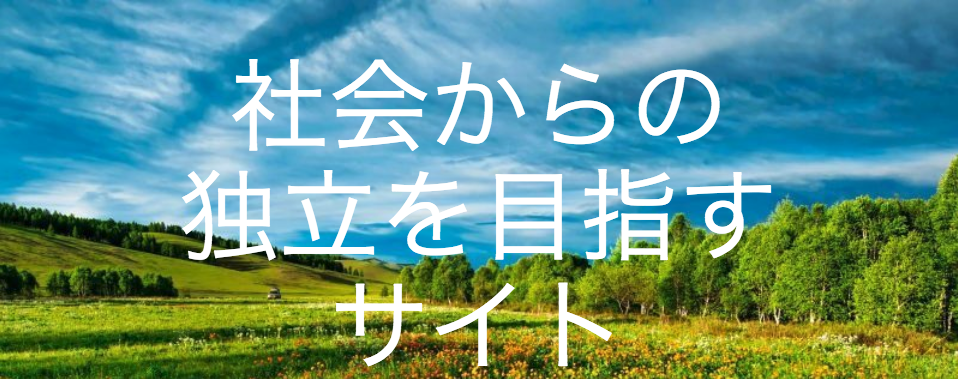
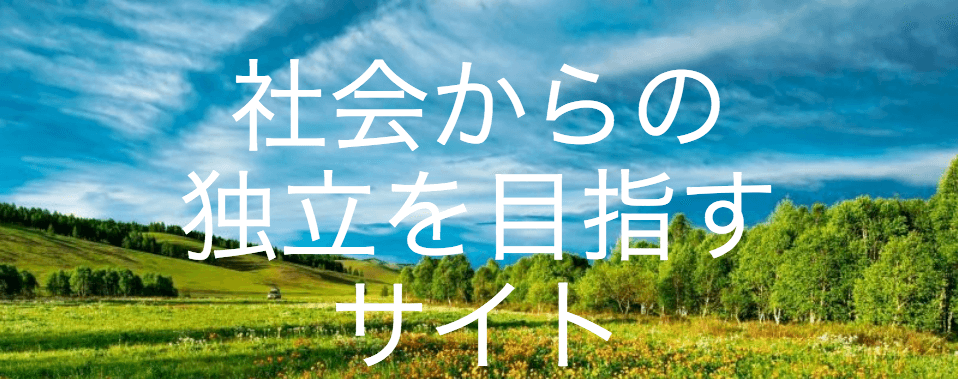
画像圧縮とブログのretake

diff --git a/html/blogs/brackets.html b/html/blogs/brackets.html
@@ -34,8 +34,14 @@ gtag('config', 'UA-122962212-1');
 </head>
 <body>
 <div class="wrap">
-  <header>
-    <img class="img-respoisive center-block " src="../../img/top.png" width="100%" height="auto" alt="社会からの独立を目指すサイト">
+  <header class="container-fluid padding_none">
+    <a href="../../index.html"><img class="img-respoisive" src="../../img/top.png" alt="社会からの独立を目指すサイト"></a>
+    <nav class="background_gray py_30">
+      <ul class="p_30 text-center">
+        <li class="px_20 inline_block"><a href="../../index.html">トップページへ</a></li>
+        <li class="px_20 inline_block"><a href="#">次の記事へ(準備中)</a></li>
+      </ul>
+    </nav>
   </header>
   
   <main role="main">
@@ -88,8 +94,8 @@ gtag('config', 'UA-122962212-1');
       </ul>
     </section>
     
-    <section class="container-fluid max_width_960">
-      <h2 id="what" class="h2_heading">Bracketsって？</h2>
+    <section id="what" class="container-fluid max_width_960">
+      <h2 class="h2_heading">Bracketsって？</h2>
       <p class="p_30">Bracketsとは、HTML,CSSコーディングに<br class="br_sp">特化したテキストエディタのことです。<br class="br_sp"><br class="br_sp"><br class="br_pc">メモ帳でもコーディングできますが、<br class="br_sp">とてもやりづらいです。<br class="br_sp"><br class="br_sp"><br class="br_pc"><br class="br_pc">高機能のツールを使ったほうが絶対に<br class="br_sp">良いです。無料ですしね。<br class="br_sp"><br class="br_sp"><br class="br_pc">日本語対応済みのため、とっかかりやすい<br class="br_sp">ですし、HTML・CSSの勉強をしたい人 or <br class="br_sp">それらを使ってWebページを<br class="br_pc">作りたい人には<br class="br_sp">ピッタリのアプリケーションです。<br class="br_sp"><br class="br_sp"><br class="br_pc"><br class="br_pc">拡張機能も豊富なので、大規模な開発にも<br class="br_sp">対応できるのもすごいです。</p>
     </section>
     
@@ -117,8 +123,8 @@ gtag('config', 'UA-122962212-1');
       <p class="p_30">さきほど紹介したライブプレビュー機能<br class="br_sp">ですが、<br class="br_pc">すごいのはリアルタイムで更新<br class="br_sp">されることです。<br class="br_sp"><br class="br_sp"><br class="br_pc"><br class="br_pc">文字を打った瞬間、マークアップを変更<br class="br_sp">した瞬間にブラウザ画面が更新されるので、<br class="br_sp"><br class="br_pc">どこをどう変更したのかがすぐに分かります。<br class="br_sp"><br class="br_sp"><br class="br_pc"><br class="br_pc">また、選択した部分がブラウザでは<br class="br_sp">どの部分なのかがハイライト強調される<br class="br_sp">ので、<br class="br_pc">初心者の人にはとても心強いです。<br class="br_sp">分かりやすく編集することができますね。</p>
     </section>
     
-    <section class="container-fluid max_width_960 mb_30">
-      <h2 id="enviro" class="h2_heading">Bracketsの環境設定</h2>
+    <section id="enviro" class="container-fluid max_width_960 mb_30">
+      <h2 class="h2_heading">Bracketsの環境設定</h2>
       <p class="p_30">それでは早速、環境設定のやり方について説明していきます。</p>
     </section>
     
@@ -189,9 +195,14 @@ gtag('config', 'UA-122962212-1');
       <p class="p_30">以上で　Bracketsのセットアップ作業は<br class="br_sp">完了です。<br class="br_pc"><br class="br_sp"><br class="br_sp">次回からは、フォルダを作成して<br class="br_sp">Webサイトを制作していきます。<br class="br_pc"><br class="br_sp">いろいろな機能を利用して効率よく制作する<br class="br_sp">すべを紹介していきます。</p>
     </section>
     
-    
   </main>
   
+  <nav class="background_gray py_30 container-fluid padding_none max_width_960">
+    <ul class="p_30 text-center">
+      <li class="px_20 inline_block"><a href="../../index.html">トップページへ</a></li>
+      <li class="px_20 inline_block"><a href="#">次の記事へ(準備中)</a></li>
+    </ul>
+  </nav>
   <footer class="text-center bg-primary center-block">
     <small>Copyright Kanda Takeshi</small>
   </footer>

diff --git a/index.html b/index.html
@@ -35,8 +35,8 @@ gtag('config', 'UA-122962212-1');
 </head>
 <body>
 <div class="wrap">
-  <header>
-    <img class="img-respoisive center-block " src="./img/top.png" width="100%" height="auto" alt="社会からの独立を目指すサイト">
+  <header class="container-fluid padding_none">
+    <img class="img-respoisive" src="../../img/top.png" alt="社会からの独立を目指すサイト">
   </header>
   
   <main role="main" class="panel panel-default none_margin panel_center">
@@ -56,7 +56,7 @@ gtag('config', 'UA-122962212-1');
           <section class="tab-pane fade in profile active mb_30 px_20">
             <div class="row mb_30">
               <h2 class="my_30 px_20">プロフィール</h2>
-              <img class="img-circle none_padding img-responsive center-block img_harf"  src="./img/free_icon.jpg">
+              <img class="img-circle none_padding img-responsive center-block img_harf"  src="./img/free_icon.png">
             </div>
             
             <div class="row px_20 container-fluid">
@@ -115,7 +115,7 @@ gtag('config', 'UA-122962212-1');
               <h2 class="text-center">Progate<br class="br_sp">（HTML・CSS実践コースⅠ）</h2>
               <p class="text-center mt_30 comment">※画像クリックで作成したページに飛びます。</p>
               <div class="col-sm-6 col-sm-offset-3">
-                <a href="./html/make/progate.html"><img src="./img/proagte.jpg" class="border"></a>
+                <a href="./html/make/progate.html"><img src="./img/proagte.png" class="border"></a>
                 <p>今は無い伝説の実践コースです。<br class="br_pc">事細かにやり方を教えてくれるProgateですが、<br class="br_pc">実践コースとなると別です。<br class="br_pc"><br class="br_pc">完成イメージ図だけ渡されて、「このとおりに組んで下さい」<br class="br_pc">と言われ、放ったらかしにされます。<br class="br_pc"><br class="br_pc">「今までProgateにて学んだことを発揮すれば突破できるはずです」<br class="br_pc">と書いてあるんですが、それだけでは難しいものばかり。<br class="br_pc"><br class="br_pc">自分で調べて解決した部分が多かったので、<br class="br_pc">ググり力も上げてくれる課題でした。</p>
               </div>
               

diff --git a/sass/_common.scss b/sass/_common.scss
@@ -13,6 +13,16 @@ $max_width:960px;
   border-bottom-color: transparent;
 }
 
+.navbar_center{
+    margin: 0 auto;
+    display: table;
+    float:none;
+}
+
+.inline_block{
+  display: inline-block;
+}
+
 article section.tab-pane{
   max-width: $max_width;
 }
@@ -29,7 +39,7 @@ article section.tab-pane{
   padding: 0;
 }
 
-header img{
+header{
   max-width: $max_width;
 }
 

diff --git a/css/blogs.css b/css/blogs.css
@@ -8,6 +8,16 @@
   border-bottom-color: transparent;
 }
 
+.navbar_center {
+  margin: 0 auto;
+  display: table;
+  float: none;
+}
+
+.inline_block {
+  display: inline-block;
+}
+
 article section.tab-pane {
   max-width: 960px;
 }
@@ -24,7 +34,7 @@ article section.tab-pane {
   padding: 0;
 }
 
-header img {
+header {
   max-width: 960px;
 }
 

diff --git a/css/index.css b/css/index.css
@@ -8,6 +8,16 @@
   border-bottom-color: transparent;
 }
 
+.navbar_center {
+  margin: 0 auto;
+  display: table;
+  float: none;
+}
+
+.inline_block {
+  display: inline-block;
+}
+
 article section.tab-pane {
   max-width: 960px;
 }
@@ -24,7 +34,7 @@ article section.tab-pane {
   padding: 0;
 }
 
-header img {
+header {
   max-width: 960px;
 }
 

diff --git a/css/progate.css b/css/progate.css
@@ -9,6 +9,16 @@
   border-bottom-color: transparent;
 }
 
+.navbar_center {
+  margin: 0 auto;
+  display: table;
+  float: none;
+}
+
+.inline_block {
+  display: inline-block;
+}
+
 article section.tab-pane {
   max-width: 960px;
 }
@@ -25,7 +35,7 @@ article section.tab-pane {
   padding: 0;
 }
 
-header img {
+header {
   max-width: 960px;
 }
 
